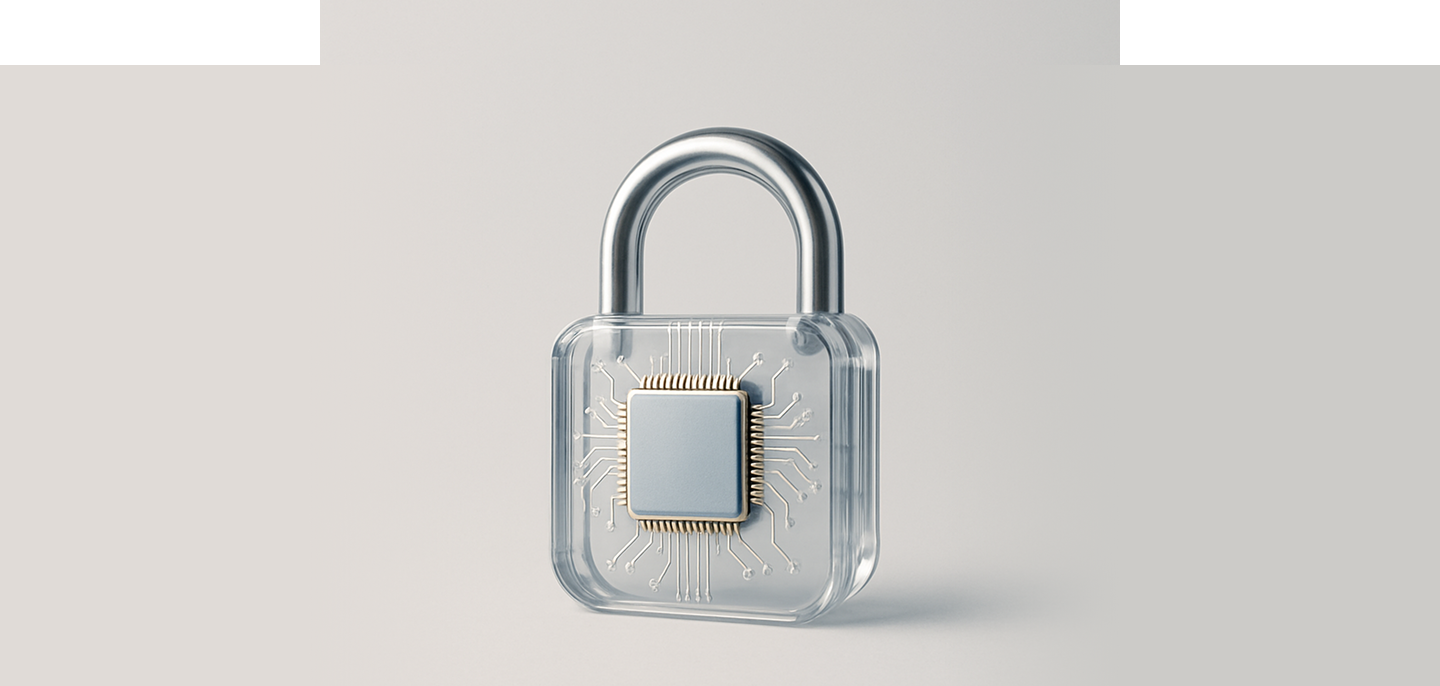
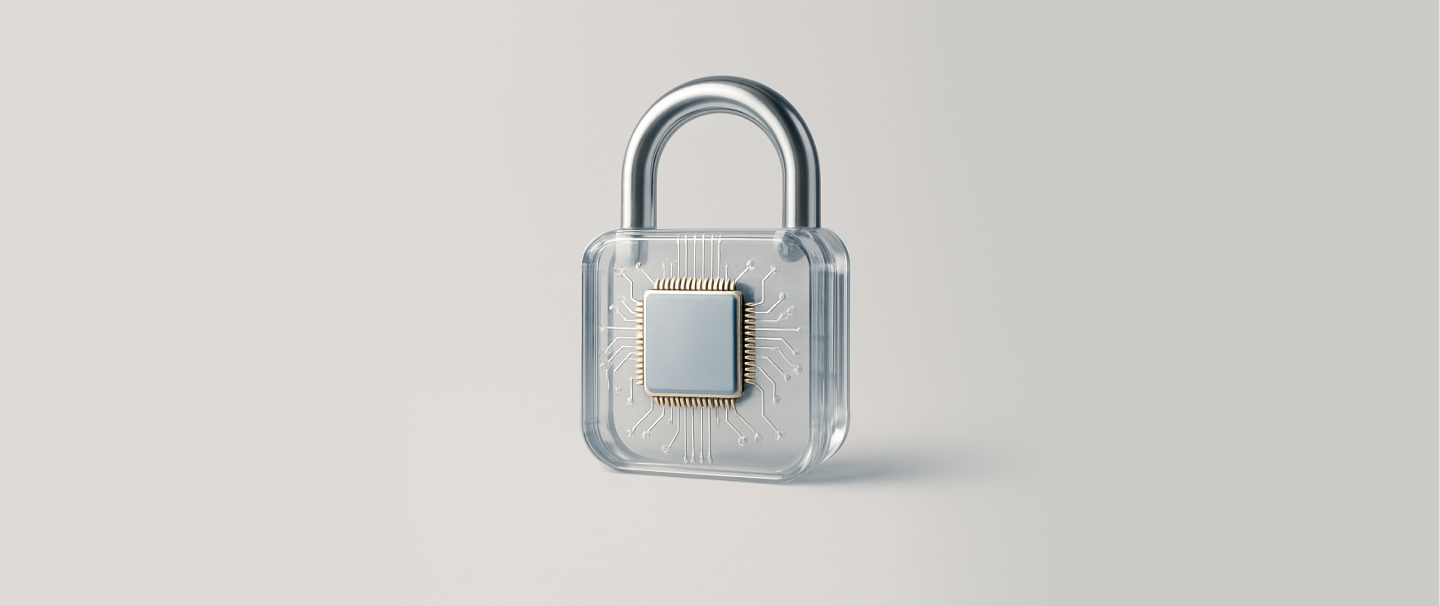
light update for moon images and industry cover picture

Changed region(s): [[0.375, 0.1188, 0.6875, 0.9208], [0.75, 0.0, 1.0, 0.1188], [0.0, 0.0, 0.25, 0.1188]]

diff --git a/src/data/projectDetail.js b/src/data/projectDetail.js
@@ -37,7 +37,9 @@ import SensorsAutomation from "@/public/moon/sensors-automation.png";
 import HomeAutomationSystem from "@/public/moon/home-automation-system.png";
 import CameraSystem from "@/public/moon/camera-system.png";
 import HomeAutomationController from "@/public/moon/home-automation-controller.png";
-
+import HomeAutomationHub from "@/public/moon/home-automation-hub.png";
+import SmartHomeHubDeviceIntegration from "@/public/moon/smart-home-hub-device-integration.png";
+import SmartHomeAutomationSecurity from "@/public/moon/smart-home-automation-security.png";
 //thermostat swiper images
 import ThermoSlideFirst from "@/public/thermostat/slide1.jpg";
 import ThermoSlideSecond from "@/public/thermostat/slide2.jpg";
@@ -396,11 +398,11 @@ The thermostat is made up of a main unit and a backplate. The main unit includes
       },
     ],
     galleryImages: [
-      SmartBedroomLightingSystemDesign,
-      SmartSleepLightingDevice,
-      SmartNightstandLightWithSensors,
-      SmartSleepLightAlarm,
-      SmartBedroomHubDevice,
+      HomeAutomationHub,
+      SmartHomeHubDeviceIntegration,
+      SmartHomeAutomationSecurity,
+      CameraSystem,
+      HomeAutomationController,
     ],
     finalText:
       "The Moon project created a smart home hub that brings devices together,automates tasks, and provides all-around home monitoring. Its sensors, high-performance CPU, and innovative design show a practical and forward-thinking approach to smart home technology.The Moon project was fully developed and successfully completed on our side, including a working prototype, though production was not implemented due to marketing considerations. For future collaborators: We invite you to discover the potential for collaboration in bringing the Moon project to life and set new standards in smart home technology.",

diff --git a/src/app/industries/[slug]/page.jsx b/src/app/industries/[slug]/page.jsx
@@ -44,7 +44,7 @@ function _StructuredData({ industry }) {
           title={industry.hero.imageTitle}
           fill
           unoptimized
-          className="object-cover"
+          className="object-center object-cover"
         />
       </div>
 
